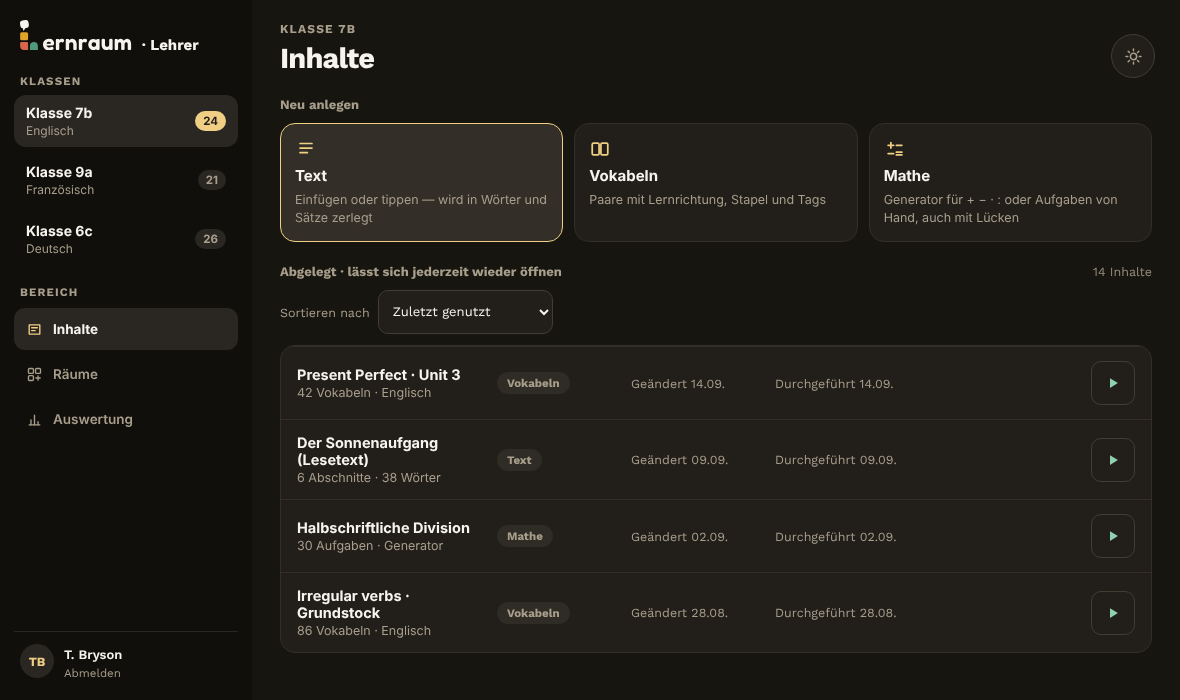
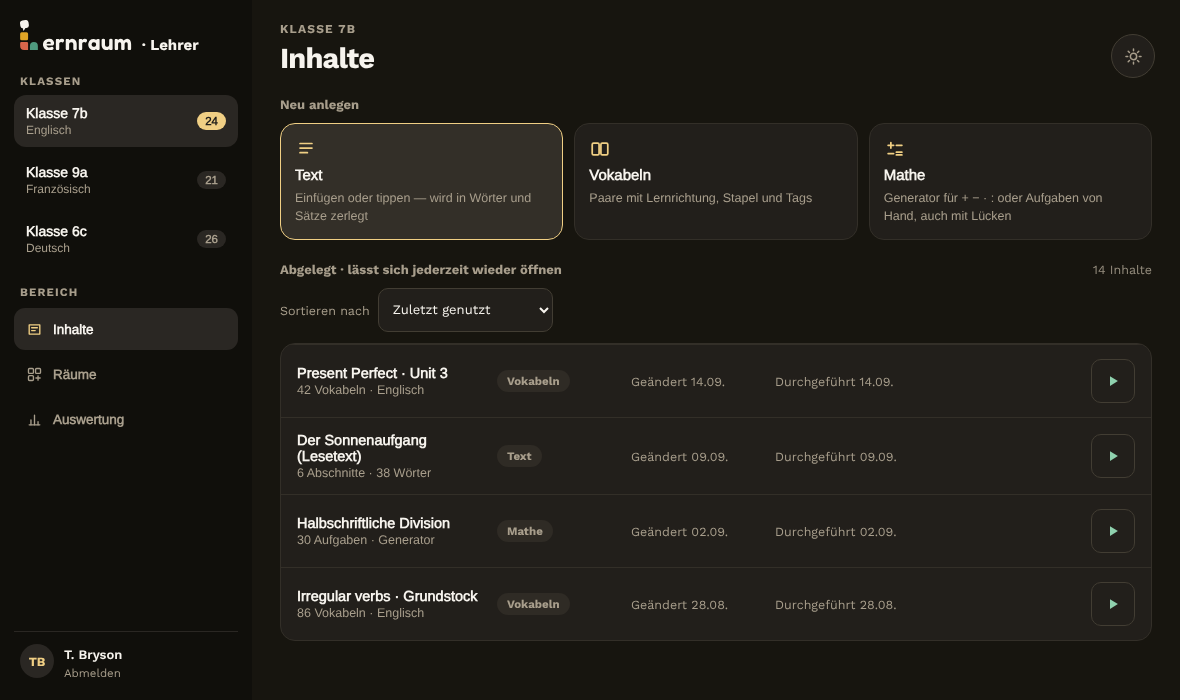
Designvergleich: Schrift der Schaltflächen unabhängig vom Rechner
Die Referenzbilder sind mit Arial-Breiten (Liberation Sans) gerendert. Der
Test legt -apple-system, BlinkMacSystemFont und "Segoe UI" per @font-face auf
Liberation Sans, das Render-Skript setzt sie für Bedienelemente der Vorlage.
Damit hängt der Vergleich nicht mehr von der fontconfig des Rechners ab.

Die neun Bilder aus 3c08ab4 (3c, 3d, 3d-dark, 5c-import, 5c-live,
5c-live-dark, 5c-lobby, 5c-options, 5d-import) waren in einem Container mit
Inter-Umleitung aus der Ansicht aufgenommen worden und wurden mit dieser
Schrift neu erzeugt. 5c-settings und 5d-settings bleiben unverändert. Toleranz
und Produktcode bleiben gleich.

Claude-Session: https://claude.ai/code/session_01Kvn7mZy5cxrUgtev4VSehW

diff --git a/e2e/design/design-fidelity.spec.ts b/e2e/design/design-fidelity.spec.ts
@@ -21,6 +21,20 @@ import { expect, test } from "@playwright/test";
  */
 const MAX_DIFF_RATIO = Number(process.env["DESIGN_MAX_DIFF"] ?? 0.012);
 
+/*
+ * Die Referenzbilder sind mit Arial-Breiten (Liberation Sans) gerendert. Die
+ * Systemschriften der Schaltflächen (--font-control) lösen sich je nach
+ * fontconfig des Rechners unterschiedlich auf. Damit der Vergleich nicht von der
+ * Maschine abhängt, werden diese Namen nur im Test auf Liberation Sans/Arial
+ * gelegt. Das Produkt zeigt weiter die Systemschrift.
+ */
+const CONTROL_FONT_CSS = ["-apple-system", "BlinkMacSystemFont", "Segoe UI"]
+  .map(
+    (name) =>
+      `@font-face { font-family: "${name}"; src: local("Liberation Sans"), local("Arial"); }`,
+  )
+  .join("\n");
+
 const manifest = JSON.parse(
   readFileSync(
     new URL("../../docs/design/screens.json", import.meta.url),
@@ -45,6 +59,7 @@ for (const screen of manifest.screens) {
     );
     await page.setViewportSize({ width: screen.width, height: screen.height });
     await page.goto(`/entwicklung/screens/${screen.id}`);
+    await page.addStyleTag({ content: CONTROL_FONT_CSS });
     const frame = page.locator(`[data-screen="${screen.id}"]`);
     await expect(frame).toBeVisible();
     if (screen.ready) await frame.locator(screen.ready).waitFor();

diff --git a/docs/design/README.md b/docs/design/README.md
@@ -13,6 +13,8 @@ Verbindliche Gestaltungsgrundlage seit Entscheidung 47 (Vault, 29.09.2026). Seit
 
 Vergleich: `npm run test:design` rendert jede umgesetzte Ansicht in der Größe der Vorlage und vergleicht sie mit dem Referenzbild.
 
+Der Test und das Render-Skript bilden die Systemschriften der Schaltflächen (`-apple-system`, `BlinkMacSystemFont`, „Segoe UI“) auf Liberation Sans ab, wie die Vorlage unter Linux. Der Vergleich ist damit unabhängig vom Rechner (Mac, Cloud-Container mit Inter-Umleitung, CI). Die neun Bilder aus Commit `3c08ab4` (3c, 3d, 3d-dark, 5c-import, 5c-live, 5c-live-dark, 5c-lobby, 5c-options, 5d-import) stammen aus der Ansicht, wie dort begründet, und wurden mit dieser Schrift neu aufgenommen.
+
 | Screen              | Inhalt                                                                                 | Ziel-Route                 |
 | ------------------- | -------------------------------------------------------------------------------------- | -------------------------- |
 | 1a–1c               | frühe Einstiegsvarianten (Referenz für 2a/2b)                                          | –                          |
